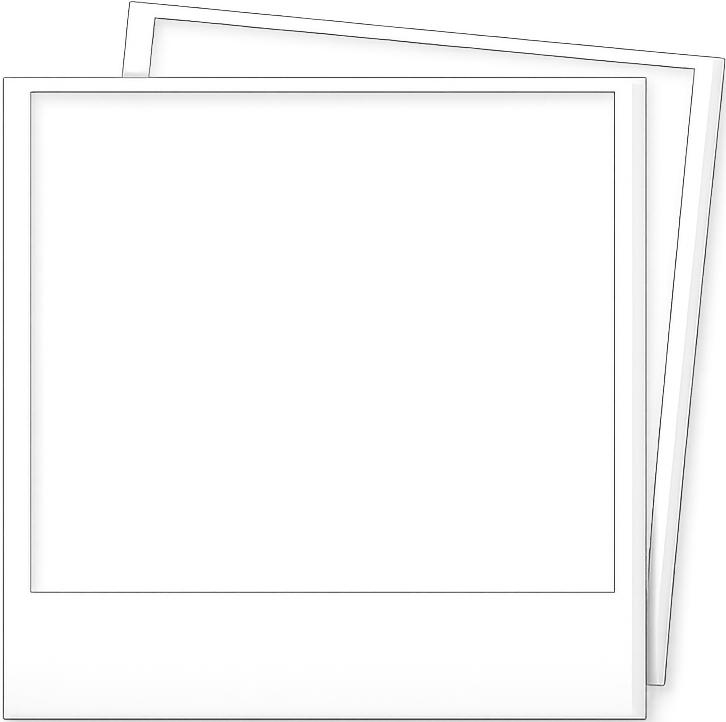
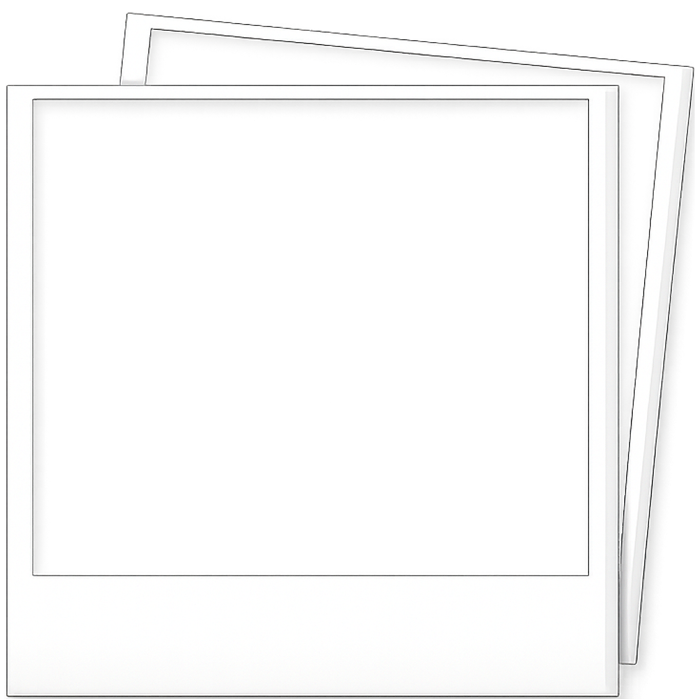
added individual portraits to gallery

Changed region(s): [[0.0, 0.0, 1.0, 1.0]]

diff --git a/lib/screens/gallery_screen.dart b/lib/screens/gallery_screen.dart
@@ -100,7 +100,36 @@ Color _nameplateColor() {
       return const Color.fromARGB(84, 255, 255, 255);
   }
 }
+String _galleryImage() {
+  switch (userId) {
+    case 'joy':
+      return 'assets/ui/gallery/JoyGalleryImage.png';
 
+    case 'adi':
+      return 'assets/ui/gallery/AdiGalleryImage.png';
+
+    case 'danielle':
+      return 'assets/ui/gallery/DanielleGalleryImage.png';
+
+    case 'lera':
+      return 'assets/ui/gallery/LeraGalleryImage.png';
+
+    case 'lihi':
+      return 'assets/ui/gallery/LihiGalleryImage.png';
+
+    case 'lian':
+      return 'assets/ui/gallery/LianGalleryImage.png';
+
+    case 'tal':
+      return 'assets/ui/gallery/TalGalleryImage.png';
+
+    case 'nella':
+      return 'assets/ui/gallery/NellaGalleryImage.png';
+
+    default:
+      return 'assets/ui/gallery/PhotoAlbumFrames.png';
+  }
+}
   const GalleryAlbumTile({
     super.key,
     required this.title,
@@ -136,12 +165,12 @@ Color _nameplateColor() {
         child: Column(
           mainAxisSize: MainAxisSize.min,
           children: [
-            Image.asset(
-              'assets/ui/gallery/PhotoAlbumFrames.png',
-              width: 97,
-              fit: BoxFit.contain,
-              filterQuality: FilterQuality.high,
-            ),
+        Image.asset(
+  _galleryImage(),
+  width: 97,
+  fit: BoxFit.contain,
+  filterQuality: FilterQuality.high,
+),
             const SizedBox(height: 6),
             StreamBuilder<QuerySnapshot<Map<String, dynamic>>>(
               stream: countQuery.snapshots(),